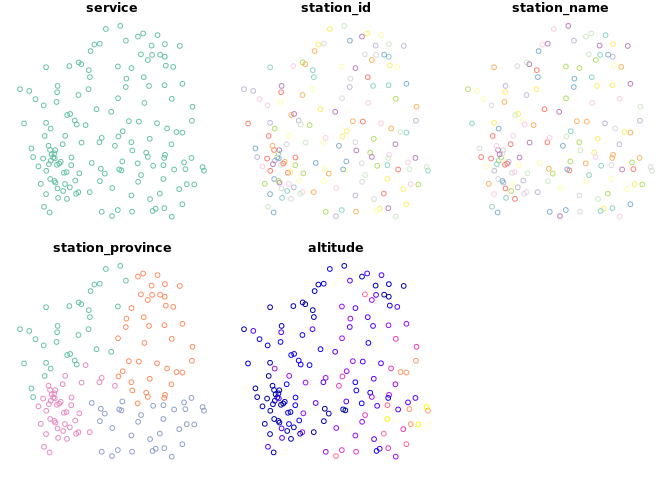
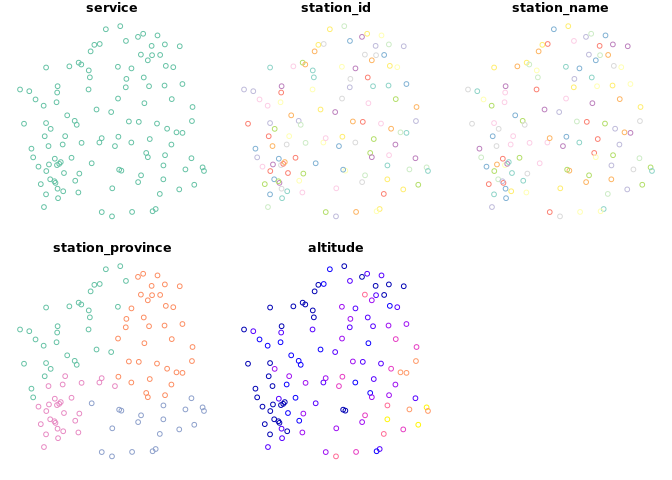
2022-07-27 16:57:06 automatic update

diff --git a/content/software/meteospain/index.md b/content/software/meteospain/index.md
@@ -81,10 +81,10 @@ get_meteo_from('meteogalicia', mg_options)
 #> Consellería de Medio Ambiente, Territorio e Vivenda da Xunta de Galicia como fonte da mesma cada vez 
 #> que as utilice para os usos distintos do particular e privado.
 #> https://www.meteogalicia.gal/web/informacion/notaIndex.action
-#> Simple feature collection with 3693 features and 14 fields
+#> Simple feature collection with 3693 features and 14 fields (with 1344 geometries empty)
 #> Geometry type: POINT
 #> Dimension:     XY
-#> Bounding box:  xmin: -9.178318 ymin: 41.8982 xmax: -6.765224 ymax: 43.734
+#> Bounding box:  xmin: -9.126011 ymin: 41.90361 xmax: -6.765224 ymax: 43.734
 #> Geodetic CRS:  WGS 84
 #> # A tibble: 3,693 × 15
 #>    timestamp           service station_id station_name station_province altitude
@@ -109,25 +109,25 @@ Stations info can be accessed with `get_stations_info_from` function:
 
 ``` {.r}
 get_stations_info_from('meteogalicia', mg_options)
-#> Simple feature collection with 154 features and 5 fields
+#> Simple feature collection with 99 features and 5 fields
 #> Geometry type: POINT
 #> Dimension:     XY
-#> Bounding box:  xmin: -9.178318 ymin: 41.8982 xmax: -6.765224 ymax: 43.734
+#> Bounding box:  xmin: -9.178318 ymin: 41.90361 xmax: -6.765224 ymax: 43.734
 #> Geodetic CRS:  WGS 84
-#> # A tibble: 154 × 6
+#> # A tibble: 99 × 6
 #>    service      station_id station_name             station_province altitude
 #>  * <chr>        <chr>      <chr>                    <chr>                 [m]
 #>  1 meteogalicia 10157      Coruña-Torre de Hércules A Coruña               21
-#>  2 meteogalicia 14000      Coruña-Dique             A Coruña                5
-#>  3 meteogalicia 10045      Mabegondo                A Coruña               94
-#>  4 meteogalicia 14003      Punta Langosteira        A Coruña                5
-#>  5 meteogalicia 10144      Arzúa                    A Coruña              362
-#>  6 meteogalicia 19005      Guísamo                  A Coruña              175
-#>  7 meteogalicia 19012      Cespón                   A Coruña               59
-#>  8 meteogalicia 10095      Sergude                  A Coruña              231
-#>  9 meteogalicia 10800      Camariñas                A Coruña                5
-#> 10 meteogalicia 19001      Rus                      A Coruña              134
-#> # … with 144 more rows, and 1 more variable: geometry <POINT [°]>
+#>  2 meteogalicia 10045      Mabegondo                A Coruña               94
+#>  3 meteogalicia 10144      Arzúa                    A Coruña              362
+#>  4 meteogalicia 10095      Sergude                  A Coruña              231
+#>  5 meteogalicia 10800      Camariñas                A Coruña                5
+#>  6 meteogalicia 10143      Cariño                   A Coruña                5
+#>  7 meteogalicia 10135      Lira                     A Coruña              170
+#>  8 meteogalicia 10092      Punta Candieira          A Coruña              254
+#>  9 meteogalicia 10096      Río do Sol               A Coruña              540
+#> 10 meteogalicia 10050      CIS Ferrol               A Coruña               37
+#> # … with 89 more rows, and 1 more variable: geometry <POINT [°]>
 ```
 
 Returned objects are spatial objects (using the
@@ -136,6 +136,7 @@ plotted directly:
 
 ``` {.r}
 library(sf)
+#> Linking to GEOS 3.9.0, GDAL 3.2.1, PROJ 7.2.1
 mg_options <- meteogalicia_options(resolution = 'daily', start_date = as.Date('2021-04-25'))
 plot(get_meteo_from('meteogalicia', mg_options))
 #> A información divulgada a través deste servidor ofrécese gratuitamente aos cidadáns para que poida ser 
